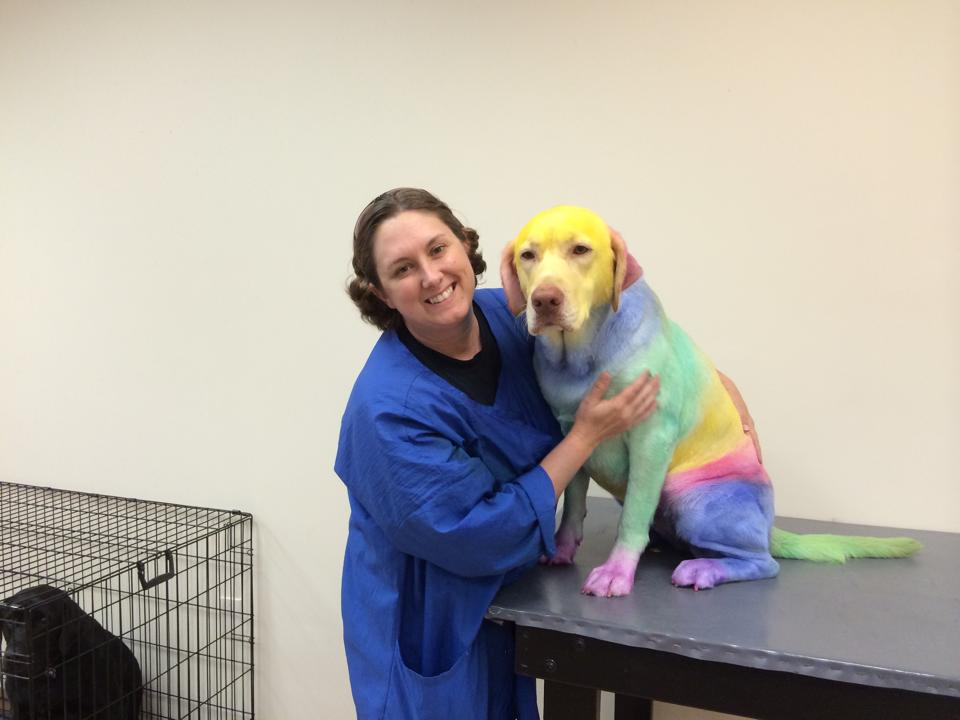
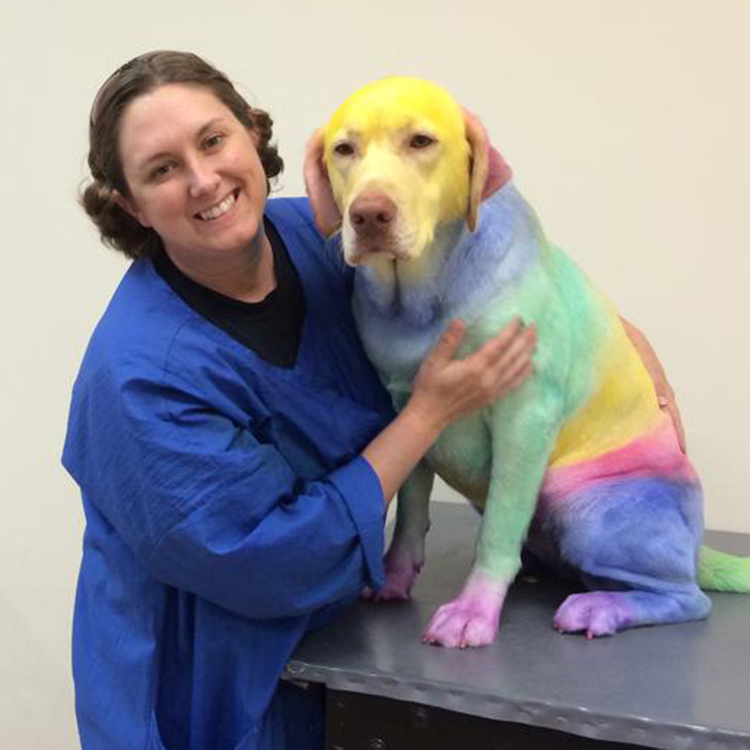
Chore: Added link to services and updated photo.

diff --git a/client/src/components/About/index.js b/client/src/components/About/index.js
@@ -1,10 +1,11 @@
 import React from "react";
-import dana from '../../assets/images/dana2.jpg';
+import { Link } from "react-router-dom";
+import dana from '../../assets/images/dana.jpg';
 import {FaAward} from 'react-icons/fa';
 import {ImLocation} from 'react-icons/im';
 import Testimonials from "../Testimonials";
 
-function About() {
+function About({ currentPage, handlePageChange }) {
     return (
     <div>
     <div className="wrapper__about">
@@ -19,7 +20,7 @@ function About() {
             <article className='about__card'>
               <FaAward className='about__icon'/>
               <h5>Experience</h5>
-              <small>3+ Years Working</small>
+              <small>10+ Years Grooming</small>
             </article>
 
             <article className='about__card'>
@@ -35,7 +36,12 @@ function About() {
           <p>
           Schedule a mobile nail trimming appointment today! Your pet (and your furniture) will thank you. </p>
 
-          <a href="#services" className='btn'>Services</a>
+          <Link herf="#service" to="/services" 
+                          onClick={() => handlePageChange("Services")} 
+                          className="btn" >
+                     Services</Link>
+
+
           <a href="#" className='btn btn-primary'>Make an Appointment</a>
         </div>
       </div>
